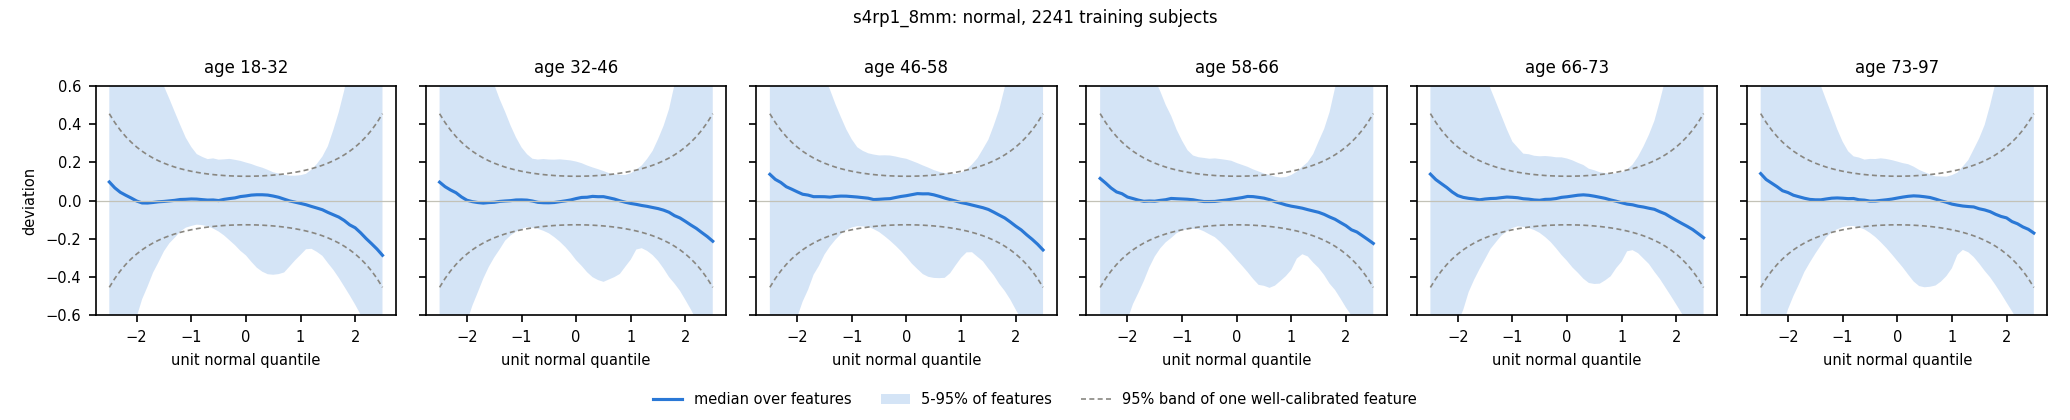
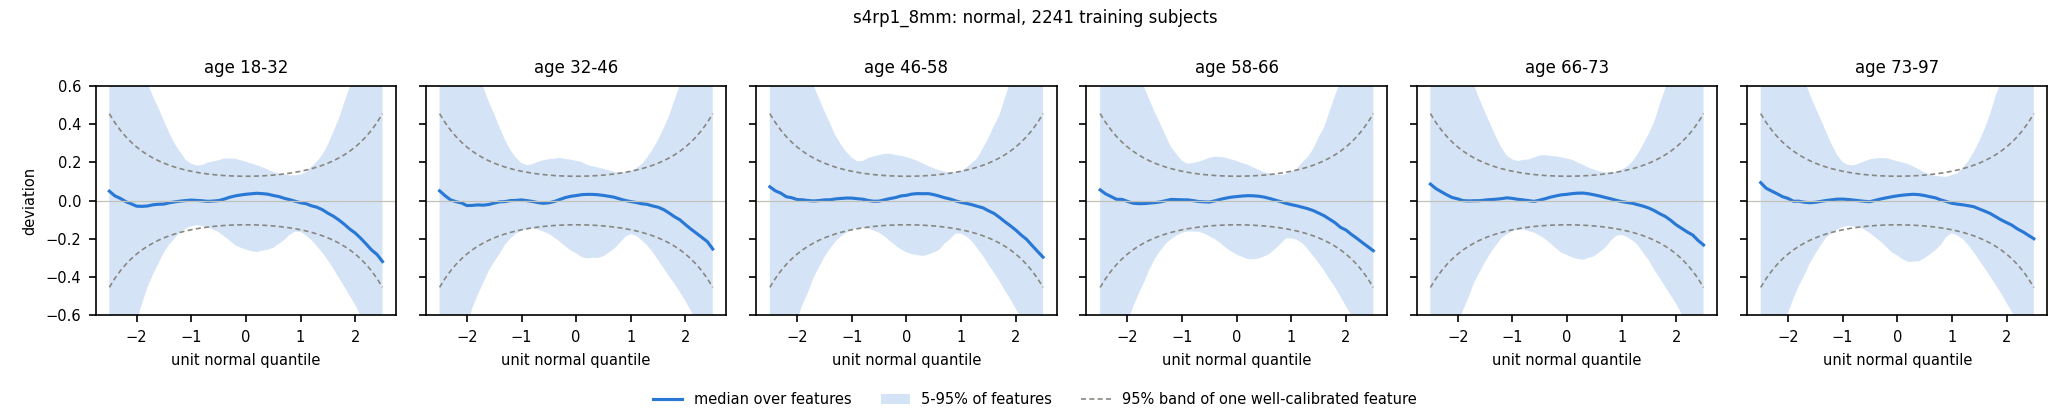
Document voxel masking and update model stats
This commit documents the default mask for voxels and vertices, explains why low-mean features are excluded, and describes how the mask is used during fitting, cross-validation, and z-map generation. It also updates the model diagnostics and example statistics to reflect the masked-data results, including the improved SHASH fit and the reduced convergence issues in low-density regions.

diff --git a/docs/models.md b/docs/models.md
@@ -26,6 +26,30 @@ $$
 - **Covariates** $\mathbf{h}(\mathbf{x})$ are natural splines with `--cov-df` degrees of freedom, linear by default, centred at their training median. A covariate is dropped from a predictor when it is constant or collinear with the other columns of that predictor.
 - **Shape.** The shape parameters $\nu$ and $\tau$ are constant by default. The terms in square brackets are added with `--shape-df` where BIC prefers them, see [Age-dependent shape](#age-dependent-shape).
 
+## Voxels and vertices that are modelled
+
+A voxel or vertex $j$ is modelled if its training values are finite and not constant and if their mean reaches a threshold,
+
+$$
+\bar y_j = \frac{1}{n} \sum_i y_{ij} \ge t .
+$$
+
+`--mask-threshold` gives $t$ as a number, an absolute value, or as a percentage of the median of $\bar y_j$ over all voxels or vertices. The defaults are $t = 0.05$ for volume data, a tissue density, and 5% of the median for surface data, whose measures have different units. A threshold of 0 keeps all voxels and vertices with finite, varying values. If the median is not positive, as for signed measures, a percentage is not used.
+
+- **Why.** In near-empty voxels most subjects have values close to zero, a point mass that no continuous distribution describes. Their z-scores mean little, because a tiny absolute difference becomes a large z, and flexible curves fail there out of sample.
+- **Why the mean.** A rule on the minimum, like the absolute threshold masking of SPM, would drop border voxels in which older subjects lose tissue, which is the effect of interest. On surfaces, it would also drop half of the sulc vertices, which are zero or negative on gyral crowns.
+- **Use.** The mask is computed from the training data when the models are fitted, also within the folds of cross-validation and of the choice of the df. It is stored with the models, and the JSON description records the threshold and the number of voxels or vertices used. Z-maps and brain age use the same mask. Masked features are NaN in the z-maps and left out of the principal component analysis. Test subjects are not masked individually, because their low values are data.
+
+In 8 mm data of the 2,241 lifespan subjects, the voxels below 0.05 contained nearly all voxels with problems, although they are few:
+
+| Voxels with a mean below 0.05 | Gray matter | White matter |
+|---|---|---|
+| Share of all voxels | 5% | 14% |
+| Share of the SHASH fits that did not converge | 96% | 94% |
+| Share of the voxels whose flexible SD curves failed out of sample | 97% | 67% |
+
+On the surface data of NKI-Rockland, the default of 5% removed no vertex of thickness, area, depth, fractal dimension, gyrification and toroGI, and 7.5% of the sulc vertices. The mask changed the mean absolute error of the default brain age by at most 0.05 years. It made the voxel-wise variant more accurate, because there every voxel enters the likelihood.
+
 ## Families
 
 ### Normal
@@ -101,7 +125,7 @@ The coefficients are updated by Newton steps for all voxels at once:
 - **Convergence.** A voxel stops when half its Newton decrement falls below $10^{-9}$ per subject. Voxels that reach 500 iterations, or whose step cannot be improved by halving, keep their best fit and are flagged as not converged.
 - **Mixed algorithm.** The optimizer can start with iterations that ignore the cross-derivatives between predictors, as the RS phase of the mixed algorithm of gamlss (`rs_iter` of `fit_distribution`). This was slower without better fits for SHASH and is off by default.
 
-In 8 mm gray and white matter of 2,241 subjects, 0.7% and 0.9% of the voxels did not converge. These voxels contain almost no tissue, with a median density of 0.001, and only a few subjects have nonzero values. Their raw skewness is about 10, and most of them have $\tau$ between 0.2 and 0.4.
+In 8 mm gray and white matter of 2,241 subjects without a mask, 0.7% and 0.9% of the voxels did not converge. These voxels contain almost no tissue, with a median density of 0.001, and only a few subjects have nonzero values. Their raw skewness is about 10, and most of them have $\tau$ between 0.2 and 0.4. With the default mask, none of 3,546 gray matter voxels and 1 of 3,242 white matter voxels did not converge.
 
 ### Age-dependent shape
 
@@ -111,7 +135,7 @@ $$
 2(\ell_2 - \ell_1) > m k \log n,
 $$
 
-where $\ell_1$ and $\ell_2$ are the unpenalized log-likelihoods of the two fits, $m$ is the number of shape parameters (2 for SHASH, 1 for GG) and $n$ is the number of subjects. In gray and white matter at 8 mm with $k = 3$, BIC chose age-dependent shape for 8% of the voxels.
+where $\ell_1$ and $\ell_2$ are the unpenalized log-likelihoods of the two fits, $m$ is the number of shape parameters (2 for SHASH, 1 for GG) and $n$ is the number of subjects. In gray and white matter at 8 mm with $k = 3$, BIC chose age-dependent shape for 7% of the voxels.
 
 ## Flexibility of the age curves
 
@@ -191,16 +215,16 @@ Worm plots (van Buuren and Fredriks, 2001) show, for six age groups, the differe
 
 ### Example
 
-Gray and white matter at 8 mm from 2,241 subjects of CamCAN, IXI, OASIS-3 and SALD gave the following shares of voxels with $p < 0.05$, which would be 5% for a perfect model:
+Gray and white matter at 8 mm from 2,241 subjects of CamCAN, IXI, OASIS-3 and SALD gave the following shares of voxels with $p < 0.05$, which would be 5% for a perfect model. The models used the default mask and the df chosen by cross-validation, 3 for $\mu$ and 2 for $\sigma$ in both tissues:
 
 | Tissue | Family | Mean | Variance | Skewness | Kurtosis | Median \|skewness\| |
 |---|---|---|---|---|---|---|
-| GM | normal | 12% | 27% | 87% | 85% | 0.54 |
-| GM | shash | 24% | 14% | 40% | 37% | 0.02 |
-| GM | shash, `--shape-df 3` | 21% | 12% | 34% | 36% | 0.02 |
-| WM | normal | 11% | 35% | 89% | 88% | 0.77 |
-| WM | shash | 28% | 19% | 36% | 37% | 0.02 |
-| WM | shash, `--shape-df 3` | 26% | 16% | 33% | 36% | 0.02 |
+| GM | normal | 12% | 25% | 87% | 84% | 0.51 |
+| GM | shash | 20% | 13% | 38% | 34% | 0.02 |
+| GM | shash, `--shape-df 3` | 18% | 12% | 33% | 33% | 0.02 |
+| WM | normal | 11% | 29% | 88% | 86% | 0.65 |
+| WM | shash | 22% | 15% | 31% | 31% | 0.02 |
+| WM | shash, `--shape-df 3` | 21% | 13% | 29% | 30% | 0.02 |
 
 SHASH removed most of the skewness and kurtosis misfit of the normal model. Age-dependent shape improved the fit only slightly. The mean is flagged more often with SHASH than with the normal model. Two effects probably contribute: least squares keeps the residual mean of the normal model close to zero in every age range by construction, while the location of SHASH also absorbs part of any change of shape with age. With 224 subjects per age group, the tests detect small misfit, so the worm plots and the median skewness are better guides to its size.
 
